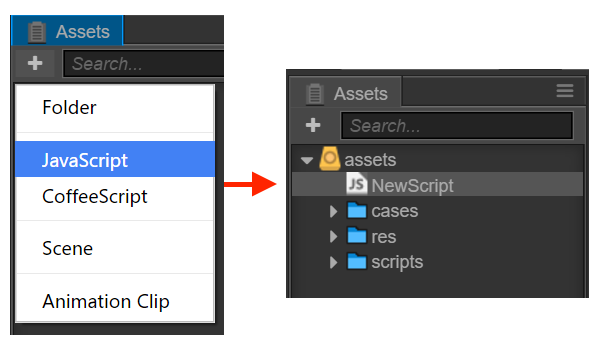
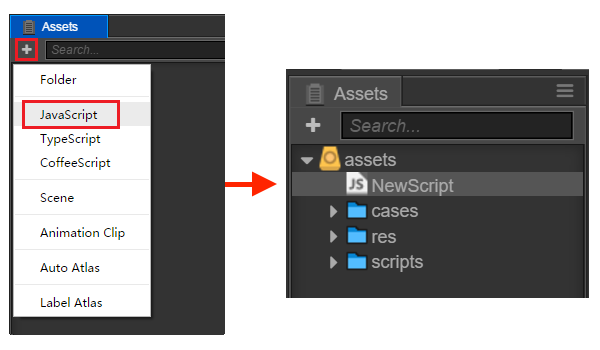
更新创建和使用组件脚本

Changed region(s): [[0.0, 0.0286, 0.39, 0.9429], [0.06, 0.6571, 0.21, 0.8]]

diff --git a/en/scripting/use-component.md b/en/scripting/use-component.md
@@ -2,8 +2,7 @@
 
 ## Creating component script
 
-In Cocos Creator, script is also a part of the asset. You can add and select JavaScript or CoffeeScript to creat a component script
-by clicking the "create" button in the asset editor. By this time, you will get a new script in your asset editor:
+In Cocos Creator, script is also a part of the assets. You can add and select JavaScript or TypeScript to create a component script by clicking the **create** button in the **Assets** editor. By this time, you will get a new script in your asset editor:
 
 ![create-script](assets/create-script.png)
 
@@ -27,16 +26,16 @@ cc.Class({
 ```
 
 ## Editing script
-By double clicking the script asset, it is opened in the default editor on your system. We recommend that a popular editor is used, such as: Vim, Sublime Text, WebStorm, VSCode, etc. Each editor has advantages and disadvantages.
+
+By double clicking the script assets, it is opened in the default editor on your system. We recommend that a popular editor is used, such as: Vim, Sublime Text, WebStorm, VSCode, etc. Each editor has advantages and disadvantages. If the user needs to use an external tool, set it up in [preferences](../getting-started/basics/editor-panels/preferences.md#data-editor) first.
 
 Edit the scripts and save them. Cocos Creator will automatically detect the alteration of the script and compile it quickly.
 
 ## Adding script into the scene node
 
-Adding the script into the scene node is actually adding a component to this node. Let's rename the new “NewScript.js” to
-“say-hello.js”. Then select the scene node you would like to add, by this time the property of this node will be shown in **Properties**.
-There's an "add component" button at the very bottom of **Properties**. Click the button and choose: add user script -> say-hello
-to add a new script component.
+Adding the script into the scene node is actually adding a component to this node. Let's rename the new **NewScript.js** to **say-hello.js**. Then select the scene node you would like to add, by this time the property of this node will be shown in **Properties**.
+
+There's an **Add Component** button at the very bottom of **Properties**. Click the button and choose **Add Custom Component -> say-hello** to add a new script component.
 
 ![add-script](assets/add-script.png)
 
@@ -45,7 +44,6 @@ If everything goes well, you will see your script shown in **Properties** :
 ![script-in-inspector](assets/script-in-inspector.png)
 
 **Note:** You can also add script by dragging script asset into **Properties**.
-
 
 ---
 
